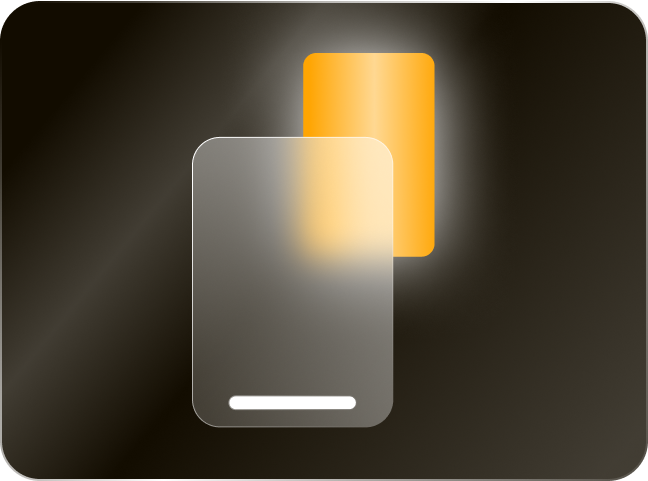
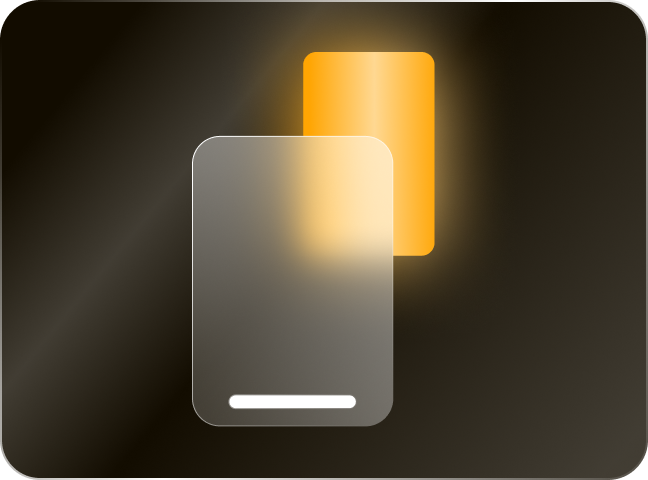
Feat: replace landing page image

diff --git a/src/components/landing_page_v2/landing_page_body.tsx b/src/components/landing_page_v2/landing_page_body.tsx
@@ -15,7 +15,7 @@ const LandingPageBody: React.FC = () => {
   return (
     <div className="relative flex flex-auto flex-col bg-landing-page-black py-32px font-dm-sans text-landing-page-white">
       {/* Info: (20241204 - Julian) Background */}
-      <div className="absolute inset-x-0 top-0 h-546px w-full bg-cta bg-cover bg-top bg-no-repeat md:h-670px lg:h-1024px"></div>
+      <div className="absolute inset-x-0 top-0 h-546px w-full bg-cta bg-contain bg-top bg-no-repeat md:h-670px lg:h-1024px"></div>
 
       {/* Info: (20241204 - Julian) Header */}
       <LandingNavbar />
@@ -38,7 +38,7 @@ const LandingPageBody: React.FC = () => {
         <FlexibleFeatureSelection />
 
         {/* Info: (20241223 - Julian) Sunrise */}
-        <div className="h-600px w-full bg-sunrise bg-cover bg-top bg-no-repeat md:h-700px lg:h-850px"></div>
+        <div className="h-600px w-full bg-sunrise bg-contain bg-top bg-no-repeat md:h-700px lg:h-850px"></div>
 
         {/* Info: (20241205 - Julian) Technical Features */}
         <TechnicalFeatures />
